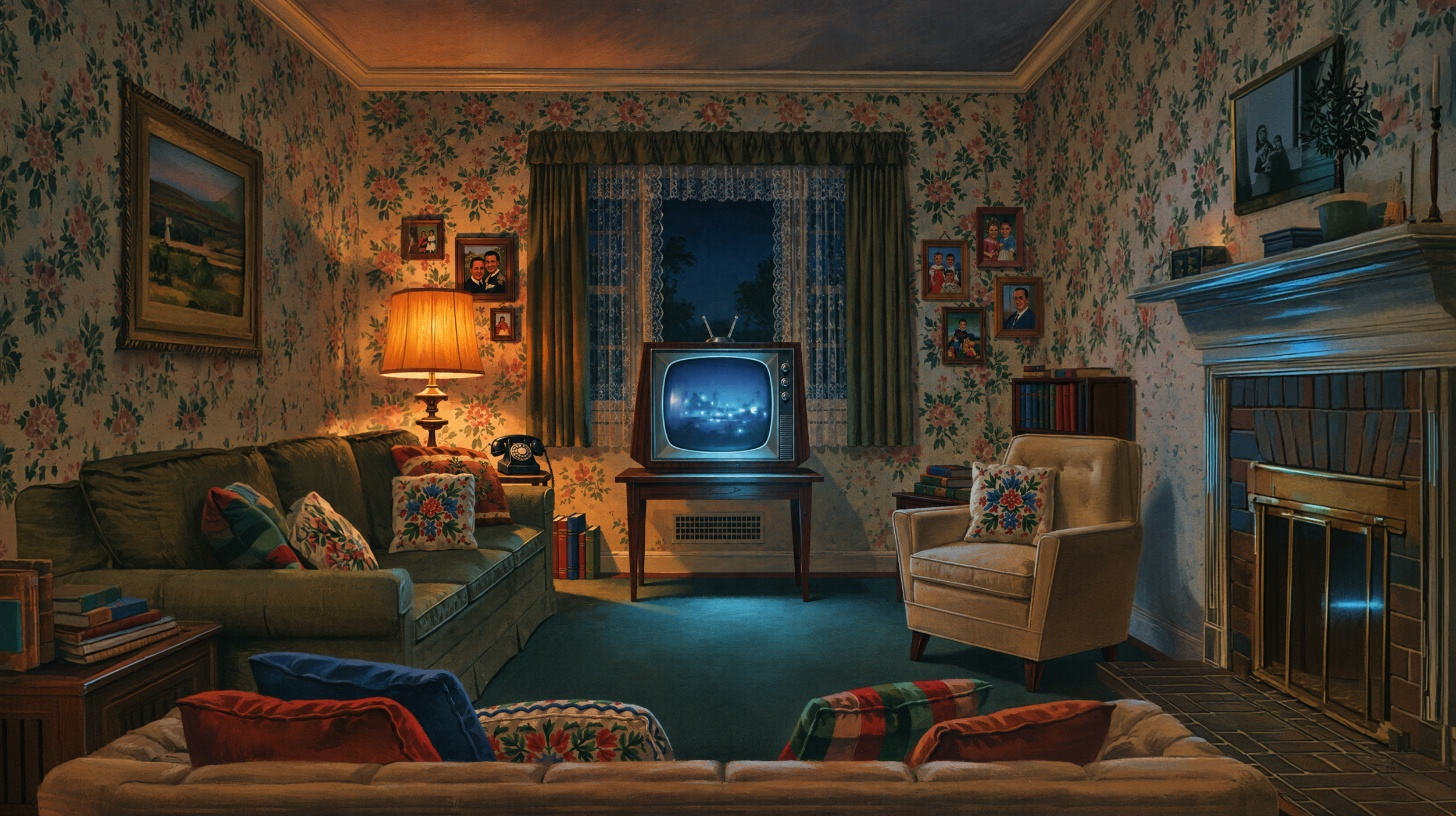
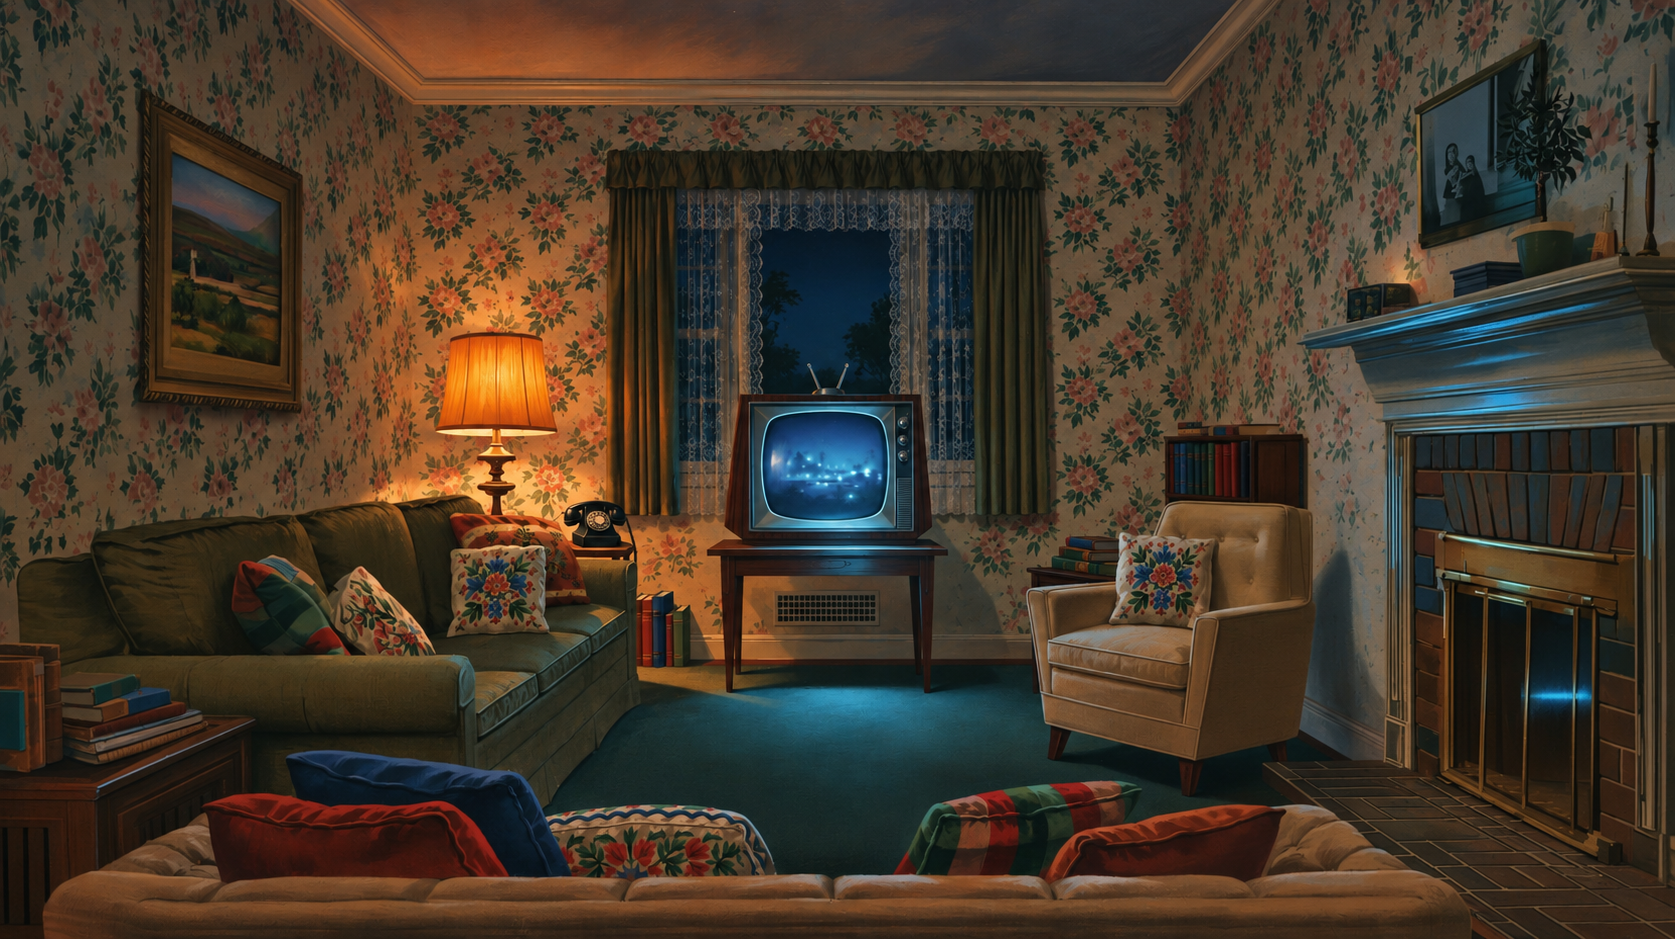
feat: 이사 전 집 배경과 TV 클릭 위치 교체

diff --git a/public/assets/css/village-theme.css b/public/assets/css/village-theme.css
@@ -243,11 +243,11 @@ body .location-music-toggle:hover, body .location-music-toggle:focus-visible { o
   position: absolute; z-index: 1; min-height: 0; padding: 0; border: 0; border-radius: 0;
   background: transparent url('../images/pre-move-house.png') center / 100% 100% no-repeat;
   box-shadow: none; transform: none; cursor: pointer;
-  clip-path: polygon(44.2% 41.9%, 48.5% 41.9%, 48.5% 41.4%, 48.1% 39.4%, 48.3% 39.2%, 48.9% 41.4%, 49.7% 41.4%, 50.3% 38.5%, 50.5% 38.7%, 49.9% 41.9%, 54.9% 41.9%, 55.7% 56.8%, 54.8% 57.7%, 43.3% 57.7%);
+  clip-path: polygon(44.1% 42%, 49.2% 42%, 48.2% 39%, 48.3% 38.8%, 49.5% 41.8%, 49.9% 41.8%, 50.8% 39.8%, 51% 40%, 50.4% 42%, 55% 42%, 55.7% 57%, 55% 57.7%, 43.4% 57.3%);
   filter: brightness(1.2);
 }
 .dialogue-stage .entry-tv-hotspot:hover, .dialogue-stage .entry-tv-hotspot:focus-visible { animation: none; filter: brightness(1.65) saturate(1.2); transform: none; }
-.entry-tv-hotspot::after { content: ''; position: absolute; left: 45%; top: 43.4%; width: 8.4%; height: 12.6%; border: 2px solid #ffe8ac; border-radius: 18%; opacity: 0; }
+.entry-tv-hotspot::after { content: ''; position: absolute; left: 45.4%; top: 43.7%; width: 8%; height: 12.3%; border: 2px solid #ffe8ac; border-radius: 18%; opacity: 0; }
 .entry-tv-hotspot:focus-visible::after { opacity: 1; }
 .dialogue-stage[data-background-ready="false"] .entry-tv-hotspot { visibility: hidden; }
 .entry-tv-tutorial { position: absolute; z-index: 6; width: 22px; height: 30px; pointer-events: none; animation: entry-tv-demo 3.2s ease-in-out infinite; filter: drop-shadow(0 2px 3px #120b12aa); }

diff --git a/public/assets/js/arrival-entry.js b/public/assets/js/arrival-entry.js
@@ -13,14 +13,14 @@ function hideTVTutorial() { if (entryTVTutorial) entryTVTutorial.hidden = true; 
 function positionEntryTV() {
   const width = entryRoot.clientWidth, height = entryRoot.clientHeight;
   if (!width || !height) return;
-  const scale = Math.max(width / 1456, height / 816);
-  entryTV.style.left = `${(width - 1456 * scale) / 2}px`;
-  entryTV.style.top = `${(height - 816 * scale) / 2}px`;
-  entryTV.style.width = `${1456 * scale}px`;
-  entryTV.style.height = `${816 * scale}px`;
+  const scale = Math.max(width / 1675, height / 939);
+  entryTV.style.left = `${(width - 1675 * scale) / 2}px`;
+  entryTV.style.top = `${(height - 939 * scale) / 2}px`;
+  entryTV.style.width = `${1675 * scale}px`;
+  entryTV.style.height = `${939 * scale}px`;
   if (entryTVTutorial) {
-    entryTVTutorial.style.left = `${(width - 1456 * scale) / 2 + 720 * scale}px`;
-    entryTVTutorial.style.top = `${(height - 816 * scale) / 2 + 404 * scale}px`;
+    entryTVTutorial.style.left = `${(width - 1675 * scale) / 2 + 833 * scale}px`;
+    entryTVTutorial.style.top = `${(height - 939 * scale) / 2 + 465 * scale}px`;
   }
 }
 if (typeof ResizeObserver !== 'undefined') new ResizeObserver(positionEntryTV).observe(entryRoot);

diff --git a/docs/IMPLEMENTATION_SPEC.md b/docs/IMPLEMENTATION_SPEC.md
@@ -11,7 +11,7 @@
 | 사건 이후의 음악 | 사색 지미가 나타난 정육점·빈 가게·지하실·밥에게 들키는 장면은 첨부한 ‘사색이 된 지미’를 이어서 재생합니다. 그 뒤 집·캐런 집·축제 등은 ‘지하실 이후 평소 브금’을 쓰고, 캐런의 비밀방에서만 ‘급박한 상황’으로 바꿉니다. 같은 곡의 장면 이동·대화는 음악을 처음부터 재생하지 않으며 음소거·탭 숨김·엔딩·새 플레이 처리를 유지합니다. | 화면 `yejoon` · 원본 세 파일 해시 일치, 장면별 배치·음소거·연속 재생 검사 5개 통과. 로컬 브라우저에서 세 곡의 실제 재생 확인. 전체 화면 검사 125개·서버 검사 54개 통과. 공개 배포 청취는 남음 |
 | 로컬 축제 시작 테스트 | `python scripts/preview_festival.py`로 별도 시연 서버를 실행하면 `/preview/festival`에서 축제 음식 장면부터, `/preview/basement`에서 빈 정육점부터 시작합니다. 남성 주인공을 지정해 새 성별 입력 계약을 따릅니다. 축제는 호감도 70·트럭 차 키 보유 상태이며 접속할 때마다 새 기록을 만듭니다. 일반 `/chat`은 기존 이름 입력 흐름을 유지하고, 일반 `app.py` 실행·공개 배포에는 테스트 경로가 등록되지 않습니다. | 화면 `yejoon` · 일반 서버 경로 미등록, 시연 페이지·새 서명 상태·이름 입력 분리·음식 조사 API 연결 확인. 로컬에서 축제 시작 화면을 실제로 열어둠. 공개 배포 대상 아님 |
 | 첫 TV 선택 시범 | 독백 뒤 처음 TV가 나타날 때 작은 가짜 포인터가 TV로 이동해 누르는 시범을 약 3.2초 간격으로 반복합니다. 실제 TV를 누르면 멈추고 실제 광고는 사용자가 눌러야 시작합니다. 먼저 누르거나 화면을 나가면 시범을 즉시 숨기며, 크기가 바뀌어도 TV 위치에 맞춥니다. 동작 줄이기 설정에서는 움직임 없는 포인터를 보여줍니다. | 화면 `yejoon` · 2026-11-09 반복 시범·자동 광고 방지·중간 취소·크기 변경을 포함한 도입·독백·대사 검사 46개 통과. 반복 애니메이션의 실제 전체 재확인은 추가로 필요 |
-| 이사 전과 시작 | 게임 시작 뒤 이사 전 집 위에 종이 섬유·제본·접힌 모서리가 보이는 일기장을 띄웁니다. 사용자 독백 11개 문단을 원문 그대로 진한 한글 손글씨로 한 글자씩 적고, 첨부한 타이핑음을 글을 쓰는 동안만 재생합니다. 문장 사이에는 잠시 쉬고 작은 화면에서는 일기장 안에서 아래로 이어집니다. 마지막 문장 뒤 새로운 시작을 고민하는 두 문단의 독백과 반짝이는 TV를 표시합니다. 배경 속 TV 윤곽을 그대로 잘라 강조하고, 그림을 클릭하거나 키보드로 선택하면 광고가 재생됩니다. 광고에는 오른쪽 아래 ‘광고 건너뛰기’ 버튼이 있어 재생 중에도 바로 광고 뒤 독백으로 이어갈 수 있습니다. 별도 TV 보기 버튼은 없으며 화면 크기가 바뀌어도 TV 위치를 따라갑니다. 광고 뒤에는 마을에 관심을 갖고 새 출발을 결심하는 네 문단의 독백과 이모지 없는 ‘더뉴빌리지로 이사 가기’를 마지막 대사 페이지의 타이핑 완료 뒤에만 표시합니다. 완료 전에는 클릭 요청도 무시합니다. 독백 건너뛰기·동작 줄이기·게임 음소거·탭 숨김·화면 이탈 처리를 유지합니다. | 화면 `yejoon` · 2026-11-09 독백·TV 선택·광고·화면 크기 변경 검사 11개 통과. 로컬 브라우저에서 TV 강조와 클릭 후 조절 막대 없는 광고 재생 확인. 기존 표정 반응 검사 실패 2개와 공개 배포 확인은 남음 |
+| 이사 전과 시작 | 이사 전 집은 새로 전달한 어두운 거실 그림을 사용합니다. TV 윤곽과 반복 마우스 시범은 새 배경의 1675×939 크기와 TV 위치에 맞췄습니다. 로컬 브라우저에서 새 배경→TV 클릭→광고→건너뛰기 뒤 독백을 확인했습니다. 게임 시작 뒤 이사 전 집 위에 종이 섬유·제본·접힌 모서리가 보이는 일기장을 띄웁니다. 사용자 독백 11개 문단을 원문 그대로 진한 한글 손글씨로 한 글자씩 적고, 첨부한 타이핑음을 글을 쓰는 동안만 재생합니다. 문장 사이에는 잠시 쉬고 작은 화면에서는 일기장 안에서 아래로 이어집니다. 마지막 문장 뒤 새로운 시작을 고민하는 두 문단의 독백과 반짝이는 TV를 표시합니다. 배경 속 TV 윤곽을 그대로 잘라 강조하고, 그림을 클릭하거나 키보드로 선택하면 광고가 재생됩니다. 광고에는 오른쪽 아래 ‘광고 건너뛰기’ 버튼이 있어 재생 중에도 바로 광고 뒤 독백으로 이어갈 수 있습니다. 별도 TV 보기 버튼은 없으며 화면 크기가 바뀌어도 TV 위치를 따라갑니다. 광고 뒤에는 마을에 관심을 갖고 새 출발을 결심하는 네 문단의 독백과 이모지 없는 ‘더뉴빌리지로 이사 가기’를 마지막 대사 페이지의 타이핑 완료 뒤에만 표시합니다. 완료 전에는 클릭 요청도 무시합니다. 독백 건너뛰기·동작 줄이기·게임 음소거·탭 숨김·화면 이탈 처리를 유지합니다. | 화면 `yejoon` · 2026-11-09 독백·TV 선택·광고·화면 크기 변경 검사 11개 통과. 로컬 브라우저에서 TV 강조와 클릭 후 조절 막대 없는 광고 재생 확인. 기존 표정 반응 검사 실패 2개와 공개 배포 확인은 남음 |
 | 새집에서 지미 방문 | 지미는 이름을 묻기 전 첫 인사에서 친구 찰스가 지난주 마을을 떠나 외로웠다고 말합니다. 이름을 입력한 뒤에는 같은 이야기를 반복하지 않습니다. 자유 대화에서 찰스를 물으면 지미는 친구이고 떠난 것으로 안다는 범위에서 답하며 이유·행선지는 모릅니다. 찰스의 실제 실종은 아직 이야기 속에 공개하지 않습니다. 기본·웃는 표정과 갈색·금빛 `...` 말풍선은 기존 화면을 유지합니다. | 이야기 `suyoung`, 화면 `yejoon` · 이름 입력 전 화면 대사 검사 12개와 서버 맥락 검사 통과. 실제 AI의 찰스 관련 답변 확인. 전체 화면에서 첫 인사와 자유 대화를 이어 시연할 일은 남음 |
 | 대사를 읽은 뒤 진행 | 선택·이동 버튼은 마지막 대사 페이지의 타이핑까지 끝난 뒤 나타납니다. 글 영역은 정확히 두 줄 높이로 제한하고 넘치는 내용만 화살표로 읽습니다. 페이지 경계의 빈 줄을 정리해 공백만 있는 페이지를 없앴고, 문단 사이 빈 줄을 줄여 한 화면에 두 줄까지 이어 읽습니다. 숨겨진 버튼 자리를 유지해 글 분량과 페이지 수가 흔들리지 않게 합니다. 직업 선택·거절 뒤에는 별도 배웅 버튼 없이 마지막 페이지의 타이핑이 끝난 뒤 글 분량에 따라 3.2~6.5초 더 보여주고 캐런이 페이드아웃하고 밥의 초대가 이어집니다. 연결 실패 때만 ‘계속하기’로 재시도할 수 있습니다. | 화면 `yejoon` · 페이지 완료·자동 퇴장 1회·통신 실패 복구 검사 통과. 로컬 브라우저에서 직업 대사 3페이지 전에는 퇴장하지 않고, 마지막 페이지 뒤 자동으로 밥이 등장함을 확인. 음식 독백 5페이지 후에만 다음 장면 버튼이 나타나고 머리카락 사진·대사 연결 확인. 서버 50개 통과, 화면 114개 중 112개 통과(기존 표정 실패 2개 유지). 공개 배포 확인은 남음 |
 | 대사 효과와 음소거 표시 | 새 대사와 다음 페이지는 글자가 이어서 나타납니다. 같은 화면을 다시 그리거나 대사창 크기를 계산해도 진행 중인 효과를 끝내지 않습니다. 같은 문장이 새 답변으로 와도 효과를 적용합니다. 게임 음소거는 우측 상단의 옅은 36px 정사각 아이콘입니다. | 화면 `yejoon` · 반복 렌더링·문장 교체·페이지 이동 검사 통과. 로컬 아이콘의 실제 가로·세로 36px 확인. 연결 검사까지 57개 중 54개 통과, 기존 축제·표정 반응 실패 3개 유지 |
